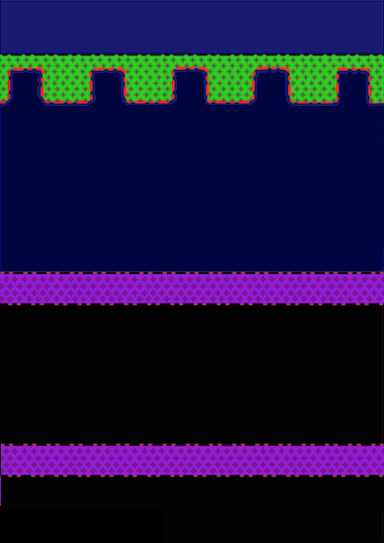
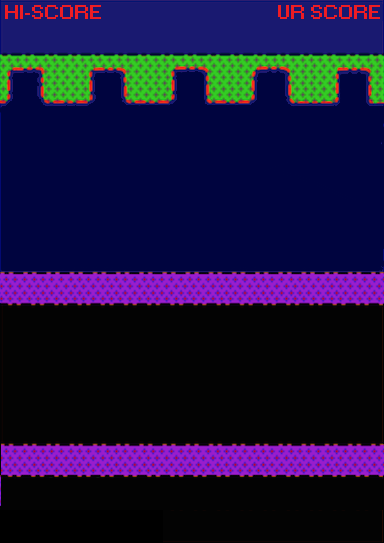
Refactor calling of actors, adjust highscore

Changed region(s): [[0.7188, 0.0, 1.0, 0.0589], [0.0, 0.0, 0.25, 0.0589]]

diff --git a/TryFrog1/src/p4_group_8_repo/Main.java b/TryFrog1/src/p4_group_8_repo/Main.java
@@ -104,7 +104,7 @@ public class Main extends Application {
 						
 						fastcar = new Obstacle("file:src/media/car1Left.png", 0, 490, -5, 50);
 						background.add(fastcar);
-						background.add(new Digit(0, 30, 550, 25)); //change third digit to move score away from title, adjusted in 139
+						background.add(new Digit(0, 30, 550, 45)); //change third digit to move score away from title, adjusted in 139
 						
 						animal = new Animal("file:src/media/froggerUp.png");	//CAN RENAME THIS?
 						background.add(animal);
@@ -114,16 +114,16 @@ public class Main extends Application {
 						lebel = new Level(270, 750, 100);
 				    	background.add(lebel);
 				    	
-				    	clock = new Tiktok(40, 225, 20);
+				    	clock = new Tiktok(40, 175, 20);
 				    	background.add(clock);
 				    	
-				    	colon = new Tiktok1(10, 40, 315, 20);
+				    	colon = new Tiktok1(10, 40, 265, 20);
 						background.add(colon);
-						sec0 = new Tiktok1(0, 40, 390, 20);
+						sec0 = new Tiktok1(0, 40, 340, 20);
 						background.add(sec0);
-						sec1 = new Tiktok1(0, 40, 350, 20);
+						sec1 = new Tiktok1(0, 40, 300, 20);
 						background.add(sec1);
-						min0 = new Tiktok1(0, 40, 285, 20);
+						min0 = new Tiktok1(0, 40, 235, 20);
 						background.add(min0);
 						
 						createTicktock();
@@ -133,7 +133,7 @@ public class Main extends Application {
 						primaryStage.show();
 						
 						background.playMusic();
-						unmute = new Mute("file:src/media/unmute.png", 40, 450, 25, 150);
+						unmute = new Mute(40, 390, 25);
 						background.add(unmute);
 						
 						try {
@@ -248,18 +248,20 @@ public class Main extends Application {
     
     //read HighScore from scores.txt file
     private void read() throws IOException {
- 	   int i, g = 2;
+ 	   int i, g = 2, space = 30;
  	   try (FileReader hs = new FileReader("src/p4_group_8_repo/scores.txt")) {	//high score
  		   while ((i = hs.read()) != -1) {
  			   int char2int = (char)i - '0';	//change to integer
- 			   background.add(new Digit(char2int, 30, 50, 25));
+ 			   System.out.println((char)i);
+ 			   background.add(new Digit(char2int, 30, space, 45));
  			   compareScore = (Math.pow(10, g)) * char2int;
  			   g--;	//sets single unit, tens unit, hundreds
+ 			   space = space+30;	//this prints in the units next to each other
  		   }
  	   }
  	   catch(IOException e) {
- 		   System.out.println("no file");
- 		   background.add(new Digit(0, 166, 30, 30));
+ 		   System.out.println("Error: cannot find .txt file");
+ 		   background.add(new Digit(0, 30, space+20, 45));
  	   }
     }//END of read method
     
@@ -269,7 +271,7 @@ public class Main extends Application {
     		  int d = n / 10;
     		  int k = n - d * 10;
     		  n = d;
-    		  background.add(new Digit(k, 30, 550 - shift, 25));
+    		  background.add(new Digit(k, 30, 550 - shift, 45));
     		  shift+=30;
     		}
     }
@@ -280,10 +282,10 @@ public class Main extends Application {
     		  k = n - d * 10;
     		  n = d;
     		  background.remove(sec0);
-    		  sec0 = new Tiktok1(k, 40, 390, 20);	//seconds in 1 unit
+    		  sec0 = new Tiktok1(k, 40, 340, 20);	//seconds in 1 unit
     		  background.add(sec0);
     		  background.remove(sec1);
-    		  sec1 = new Tiktok1(n, 40, 350, 20);	//seconds in 10 unit
+    		  sec1 = new Tiktok1(n, 40, 300, 20);	//seconds in 10 unit
     		  background.add(sec1);
     	}
     }

diff --git a/TryFrog1/src/p4_group_8_repo/Mute.java b/TryFrog1/src/p4_group_8_repo/Mute.java
@@ -8,14 +8,12 @@ public class Mute extends Actor {
 	//MyStage background;
 	//boolean changeMute = false;
 	
-	public Mute(String imageLink, int size, int xpos, int ypos, int s) {
-		setImage(new Image(imageLink, size, size, true, true));
-		setX(xpos);
-		setY(ypos);
-		
+	public Mute(int size, int xpos, int ypos) {
 		mute = new Image("file:src/media/mute.png", 40, 40, true, true);
 		unmute = new Image("file:src/media/unmute.png", 40, 40, true, true);
-		
+		setImage(unmute);
+		setX(xpos);
+		setY(ypos);
 	}
 	
 	public void picMute() {
